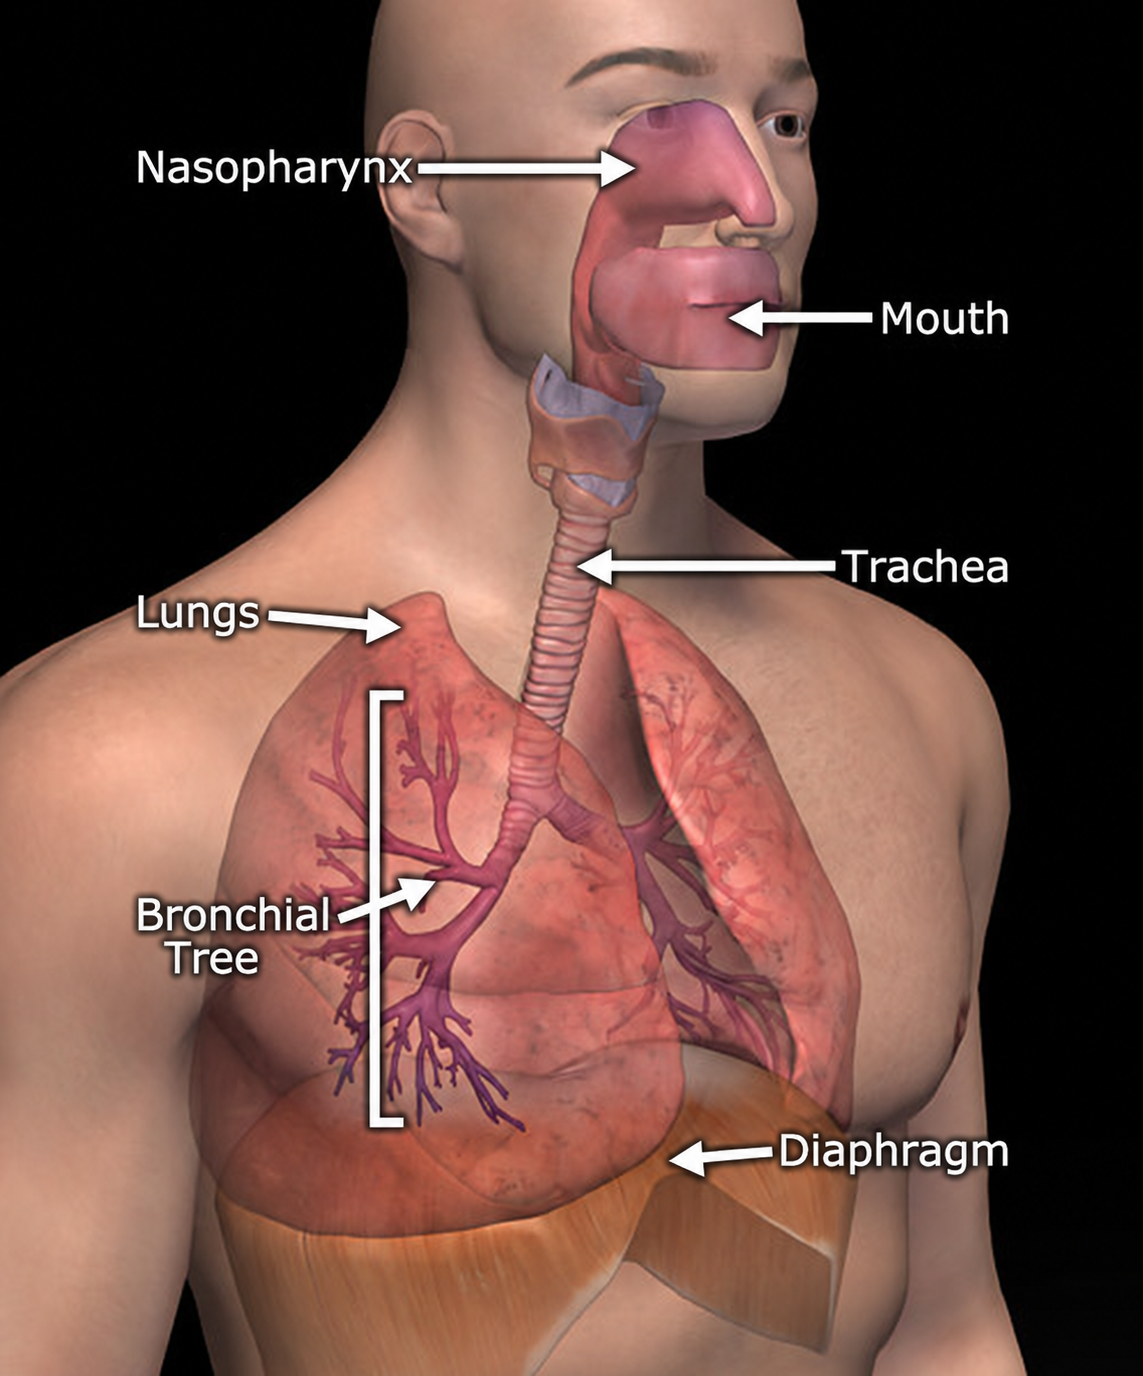
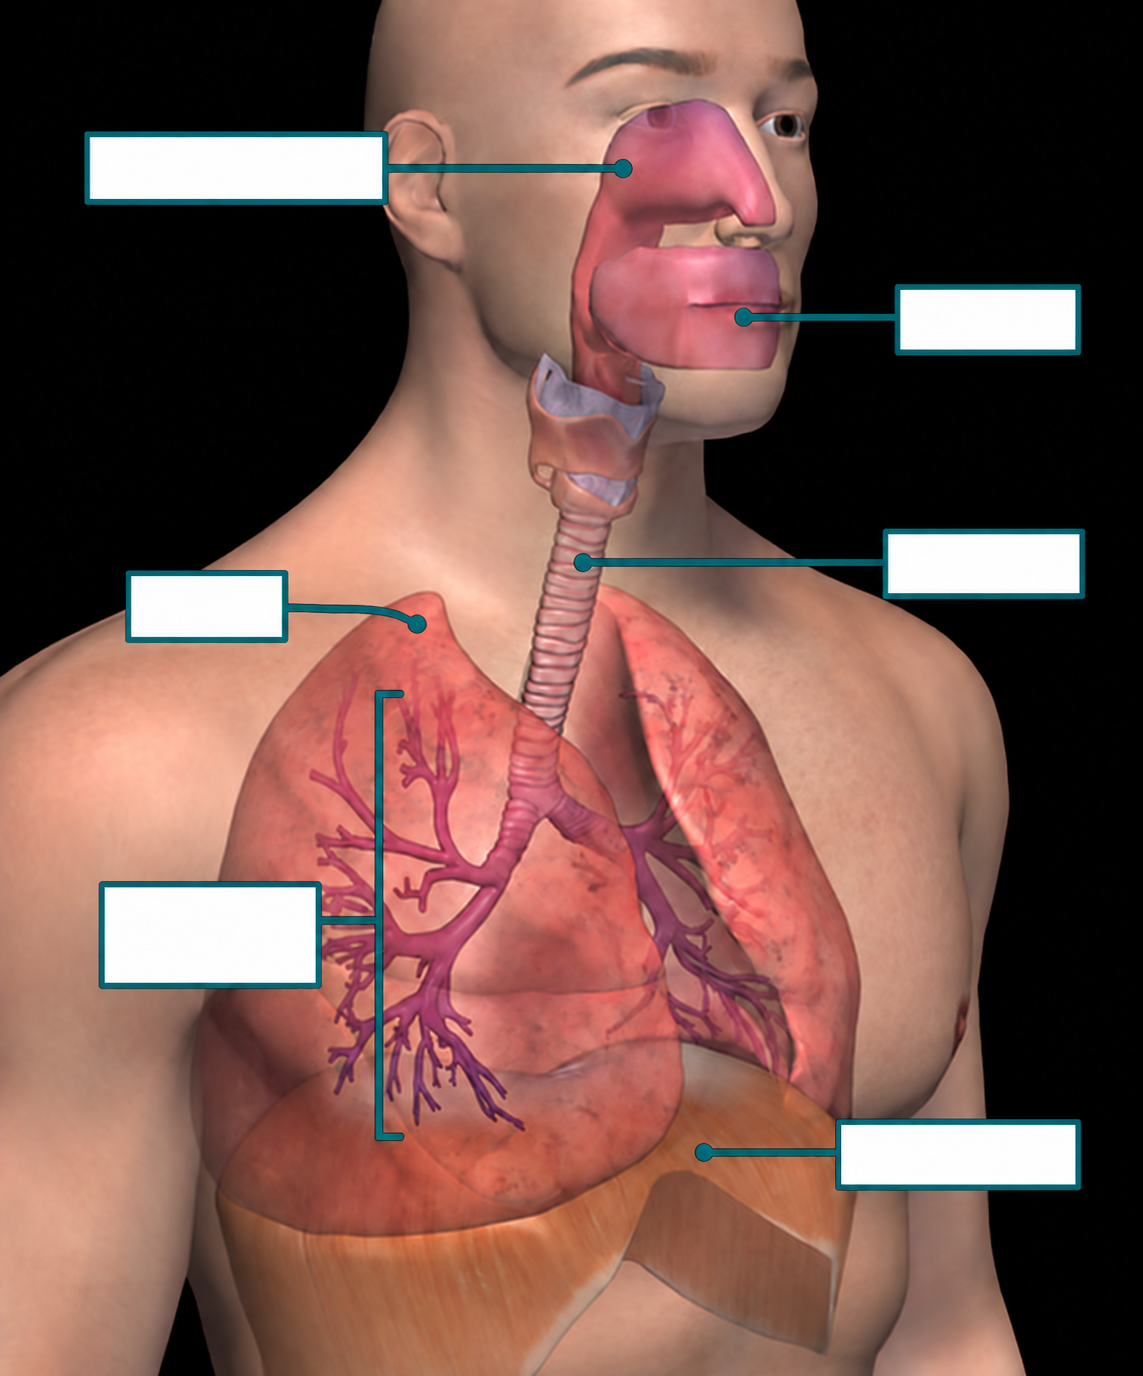
Release 1.0.26 with respiratory diagram test

diff --git a/question-bank.js b/question-bank.js
@@ -595,7 +595,7 @@ addQuestions('musculoskeletal', [
 window.diagramQuestionDatabase = [
   { id: 'diagram-body-01', topic: 'body', type: 'diagram', question: 'Drag each level of organisation onto the matching box in the body organisation diagram.', explanation: 'The levels of organisation progress from atom to molecule, cell, tissue, organ, organ system and finally the complete organism.', diagram: { image: 'assets/test-diagrams/body-organisation-test.png', alt: 'Body organisation diagram with blank label boxes for the test', labels: [{ id: 'atom', name: 'Atom', x: 13.4, y: 37.0, targetX: 13.44, targetY: 49.61, targetWidthPercent: 11.18, targetHeightPercent: 5.47 }, { id: 'molecule', name: 'Molecule', x: 39.0, y: 37.0, targetX: 39.03, targetY: 49.56, targetWidthPercent: 14.03, targetHeightPercent: 5.57 }, { id: 'cell', name: 'Cell', x: 64.5, y: 37.0, targetX: 64.48, targetY: 49.61, targetWidthPercent: 11.04, targetHeightPercent: 5.47 }, { id: 'tissue', name: 'Tissue', x: 13.4, y: 77.0, targetX: 13.40, targetY: 95.56, targetWidthPercent: 11.25, targetHeightPercent: 5.57 }, { id: 'organ', name: 'Organ', x: 39.1, y: 77.0, targetX: 39.10, targetY: 95.56, targetWidthPercent: 13.96, targetHeightPercent: 5.57 }, { id: 'organ-system', name: 'Organ system', x: 64.4, y: 77.0, targetX: 64.38, targetY: 95.56, targetWidthPercent: 19.03, targetHeightPercent: 5.57 }, { id: 'organism', name: 'Organism', x: 87.8, y: 77.0, targetX: 87.81, targetY: 95.56, targetWidthPercent: 14.51, targetHeightPercent: 5.57 }] } },
   { id: 'diagram-cardiovascular-01', topic: 'cardiovascular', type: 'diagram', question: 'Drag each label onto the matching structure in the heart diagram.', explanation: 'The labelled boxes identify structures across the external and cutaway views of the heart. The right side of the cutaway heart receives and pumps deoxygenated blood, while the left side receives and pumps oxygenated blood.', diagram: { image: 'assets/test-diagrams/heart-anatomy-test.png', alt: 'Heart anatomy diagram with blank label boxes for the test', labels: [{ id: 'left-common-carotid-artery', name: 'Left common carotid artery', x: 28.2, y: 21.4, targetX: 22.8, targetY: 12.4, targetWidthPercent: 23.9, targetHeightPercent: 4.1 }, { id: 'brachiocephalic-trunk', name: 'Brachiocephalic trunk', x: 22.4, y: 23.9, targetX: 13.4, targetY: 17.5, targetWidthPercent: 18.9, targetHeightPercent: 4.1 }, { id: 'left-subclavian-artery', name: 'Left subclavian artery', x: 34.0, y: 22.0, targetX: 44.3, targetY: 15.8, targetWidthPercent: 18.0, targetHeightPercent: 4.1 }, { id: 'superior-vena-cava', name: 'Superior vena cava', x: 16.2, y: 31.0, targetX: 9.7, targetY: 23.0, targetWidthPercent: 16.9, targetHeightPercent: 4.1 }, { id: 'aorta', name: 'Aorta', x: 31.7, y: 28.4, targetX: 41.6, targetY: 25.3, targetWidthPercent: 6.4, targetHeightPercent: 4.1 }, { id: 'pulmonary-trunk', name: 'Pulmonary Trunk', x: 28.9, y: 45.4, targetX: 7.1, targetY: 39.2, targetWidthPercent: 10.6, targetHeightPercent: 6.7 }, { id: 'right-atrium', name: 'Right Atrium', x: 19.2, y: 53.2, targetX: 7.9, targetY: 49.9, targetWidthPercent: 7.5, targetHeightPercent: 6.7 }, { id: 'right-coronary-artery', name: 'Right coronary artery', x: 17.8, y: 62.3, targetX: 8.2, targetY: 72.3, targetWidthPercent: 13.1, targetHeightPercent: 7.0 }, { id: 'inferior-vena-cava', name: 'Inferior vena cava', x: 18.3, y: 80.2, targetX: 14.0, targetY: 90.5, targetWidthPercent: 15.9, targetHeightPercent: 4.4 }, { id: 'apex', name: 'Apex', x: 33.2, y: 87.3, targetX: 33.2, targetY: 93.9, targetWidthPercent: 7.0, targetHeightPercent: 4.2 }, { id: 'auricle-of-left-atrium', name: 'Auricle of left atrium', x: 42.5, y: 44.5, targetX: 51.1, targetY: 42.1, targetWidthPercent: 12.0, targetHeightPercent: 6.8 }, { id: 'right-atrium-cutaway', name: 'Right Atrium', x: 63.0, y: 53.3, targetX: 52.2, targetY: 51.0, targetWidthPercent: 7.7, targetHeightPercent: 6.8 }, { id: 'pulmonary-valve', name: 'Pulmonary Valve', x: 67.0, y: 55.6, targetX: 50.7, targetY: 59.9, targetWidthPercent: 10.7, targetHeightPercent: 6.8 }, { id: 'left-coronary-artery', name: 'Left coronary artery', x: 42.5, y: 64.6, targetX: 50.2, targetY: 69.4, targetWidthPercent: 12.5, targetHeightPercent: 7.0 }, { id: 'tricuspid-valve', name: 'Tricuspid Valve', x: 69.3, y: 76.7, targetX: 53.3, targetY: 78.5, targetWidthPercent: 9.1, targetHeightPercent: 6.7 }, { id: 'superior-vena-cava-cutaway', name: 'Superior vena cava', x: 60.0, y: 31.0, targetX: 54.9, targetY: 23.2, targetWidthPercent: 16.3, targetHeightPercent: 4.1 }, { id: 'aorta-cutaway', name: 'Aorta', x: 75.1, y: 28.3, targetX: 85.6, targetY: 20.1, targetWidthPercent: 6.8, targetHeightPercent: 4.2 }, { id: 'pulmonary-veins', name: 'Pulmonary Veins', x: 87.5, y: 46.0, targetX: 93.2, targetY: 32.2, targetWidthPercent: 10.8, targetHeightPercent: 6.6 }, { id: 'left-atrium', name: 'Left Atrium', x: 83.4, y: 51.1, targetX: 93.7, targetY: 50.5, targetWidthPercent: 7.7, targetHeightPercent: 6.7 }, { id: 'mitral-valve', name: 'Mitral Valve', x: 78.0, y: 55.5, targetX: 93.4, targetY: 61.5, targetWidthPercent: 7.3, targetHeightPercent: 7.1 }, { id: 'aortic-valve', name: 'Aortic Valve', x: 80.0, y: 55.5, targetX: 91.6, targetY: 74.8, targetWidthPercent: 7.2, targetHeightPercent: 6.6 }, { id: 'right-ventricle', name: 'Right Ventricle', x: 69.3, y: 76.4, targetX: 64.4, targetY: 93.6, targetWidthPercent: 14.0, targetHeightPercent: 4.9 }, { id: 'left-ventricle', name: 'Left Ventricle', x: 80.5, y: 75.3, targetX: 91.3, targetY: 93.3, targetWidthPercent: 12.2, targetHeightPercent: 4.5 }] } },
-  { id: 'diagram-respiratory-01', topic: 'respiratory', type: 'diagram', question: 'Drag each airway label onto the matching structure.', explanation: 'Air passes through the nasopharynx and mouth, down the trachea, through the bronchial tree and into the lungs. The diaphragm supports ventilation.', diagram: { image: 'assets/test-diagrams/respiratory-system-test.png', alt: 'Respiratory system diagram for the test', labels: [{ id: 'nasopharynx', name: 'Nasopharynx', x: 20, y: 11, targetWidth: 260, targetHeight: 58 }, { id: 'mouth', name: 'Mouth', x: 71, y: 21, targetWidth: 250, targetHeight: 58 }, { id: 'trachea', name: 'Trachea', x: 70, y: 41, targetWidth: 300, targetHeight: 150 }, { id: 'lungs', name: 'Lungs', x: 20, y: 41, targetWidth: 360, targetHeight: 90 }, { id: 'bronchial-tree', name: 'Bronchial tree', x: 18, y: 61, targetWidth: 380, targetHeight: 150 }, { id: 'diaphragm', name: 'Diaphragm', x: 68, y: 83, targetWidth: 440, targetHeight: 180 }] } },
+  { id: 'diagram-respiratory-01', topic: 'respiratory', type: 'diagram', question: 'Drag each label onto the matching structure in the respiratory system diagram.', explanation: 'Air enters through the nasopharynx and mouth, passes down the trachea and through the bronchial tree into the lungs. The diaphragm helps drive ventilation.', diagram: { image: 'assets/test-diagrams/respiratory-system-test.png', alt: 'Respiratory system diagram with blank label boxes for the test', labels: [{ id: 'nasopharynx', name: 'Nasopharynx', x: 54.5, y: 12.2, targetX: 20.65, targetY: 12.21, targetWidthPercent: 26.42, targetHeightPercent: 5.16 }, { id: 'mouth', name: 'Mouth', x: 65.0, y: 23.0, targetX: 86.44, targetY: 23.07, targetWidthPercent: 16.27, targetHeightPercent: 4.72 }, { id: 'trachea', name: 'Trachea', x: 51.0, y: 40.8, targetX: 86.00, targetY: 41.10, targetWidthPercent: 17.67, targetHeightPercent: 4.87 }, { id: 'lungs', name: 'Lungs', x: 36.5, y: 45.3, targetX: 18.06, targetY: 44.04, targetWidthPercent: 14.09, targetHeightPercent: 5.23 }, { id: 'bronchial-tree', name: 'Bronchial Tree', x: 27.0, y: 67.0, targetX: 18.24, targetY: 67.95, targetWidthPercent: 19.34, targetHeightPercent: 7.70 }, { id: 'diaphragm', name: 'Diaphragm', x: 61.5, y: 83.8, targetX: 83.77, targetY: 83.94, targetWidthPercent: 21.43, targetHeightPercent: 4.94 }] } },
   { id: 'diagram-nervous-01', topic: 'nervous', type: 'diagram', question: 'Drag each label onto the matching structure in the nervous system diagram.', explanation: 'The central nervous system is the brain and spinal cord. The peripheral nervous system is the network of nerves outside them.', diagram: { image: 'assets/test-diagrams/nervous-system-test.png', alt: 'Central and peripheral nervous system diagram with blank label boxes for the test', labels: [{ id: 'central', name: 'Central nervous system', x: 47.0, y: 17.0, targetX: 79.4, targetY: 9.5, targetWidthPercent: 31.8, targetHeightPercent: 11.7 }, { id: 'peripheral', name: 'Peripheral nervous system', x: 51.0, y: 67.0, targetX: 82.0, targetY: 67.9, targetWidthPercent: 30.9, targetHeightPercent: 11.4 }] } },
   { id: 'diagram-lymphatic-urinary-reproductive-01', topic: 'lymphatic-urinary-reproductive', type: 'diagram', question: 'Drag each label onto the matching structure in the lymphatic, urinary and reproductive systems diagram.', explanation: 'Lymphatic vessels return excess tissue fluid to the circulation, the kidneys filter blood and form urine, the bladder stores urine, and the reproductive organs support reproduction.', diagram: { image: 'assets/test-diagrams/lymphatic-urinary-reproductive-test.png', alt: 'Lymphatic, urinary and reproductive systems diagram with blank label boxes for the test', labels: [{ id: 'lymphatic-vessels', name: 'Lymphatic vessels', x: 40.3, y: 37.0, targetX: 13.85, targetY: 18.41, targetWidthPercent: 20.21, targetHeightPercent: 13.38 }, { id: 'kidneys', name: 'Kidneys', x: 56.9, y: 46.5, targetX: 80.52, targetY: 39.21, targetWidthPercent: 20.49, targetHeightPercent: 8.50 }, { id: 'bladder', name: 'Bladder', x: 53.5, y: 63.2, targetX: 79.93, targetY: 64.94, targetWidthPercent: 20.42, targetHeightPercent: 8.59 }, { id: 'reproductive-organs', name: 'Reproductive organs', x: 53.0, y: 76.8, targetX: 81.22, targetY: 90.04, targetWidthPercent: 29.65, targetHeightPercent: 13.87 }] } },
   { id: 'diagram-digestive-01', topic: 'digestive', type: 'diagram', question: 'Drag each label onto the matching structure in the digestive system diagram.', explanation: 'Food travels from the mouth through the oesophagus, stomach and intestines. The stomach, liver, gall bladder and pancreas support digestion, while the small and large intestines absorb nutrients and water before waste is eliminated.', diagram: { image: 'assets/test-diagrams/digestive-system-test.png', alt: 'Digestive system diagram with blank label boxes for the test', labels: [{ id: 'hard-palate', name: 'Hard palate', x: 37.9, y: 15.5, targetX: 14.4, targetY: 12.7, targetWidthPercent: 19.4, targetHeightPercent: 3.5 }, { id: 'tongue', name: 'Tongue', x: 41.8, y: 18.0, targetX: 15.8, targetY: 17.6, targetWidthPercent: 12.6, targetHeightPercent: 3.5 }, { id: 'larynx', name: 'Larynx', x: 47.9, y: 22.9, targetX: 18.2, targetY: 22.6, targetWidthPercent: 13.9, targetHeightPercent: 3.5 }, { id: 'soft-palate', name: 'Soft palate', x: 48.4, y: 16.5, targetX: 87.2, targetY: 15.7, targetWidthPercent: 18.0, targetHeightPercent: 3.6 }, { id: 'oropharynx', name: 'Oropharynx', x: 48.8, y: 19.0, targetX: 88.0, targetY: 19.5, targetWidthPercent: 19.5, targetHeightPercent: 3.3 }, { id: 'oesophagus', name: 'Oesophagus', x: 51.5, y: 29.1, targetX: 88.0, targetY: 28.2, targetWidthPercent: 19.6, targetHeightPercent: 3.6 }, { id: 'liver-gall-bladder', name: 'Liver and gall bladder', x: 36.3, y: 45.6, targetX: 10.9, targetY: 44.5, targetWidthPercent: 17.9, targetHeightPercent: 5.7 }, { id: 'diaphragm', name: 'Diaphragm', x: 62.0, y: 42.3, targetX: 89.7, targetY: 41.4, targetWidthPercent: 17.1, targetHeightPercent: 3.5 }, { id: 'stomach', name: 'Stomach', x: 63.4, y: 45.6, targetX: 91.1, targetY: 45.3, targetWidthPercent: 14.6, targetHeightPercent: 3.4 }, { id: 'pancreas', name: 'Pancreas', x: 52.8, y: 50.5, targetX: 91.1, targetY: 49.7, targetWidthPercent: 14.6, targetHeightPercent: 3.3 }, { id: 'duodenum', name: 'Duodenum', x: 44.8, y: 54.0, targetX: 10.2, targetY: 53.9, targetWidthPercent: 16.4, targetHeightPercent: 3.5 }, { id: 'transverse-colon', name: 'Transverse colon', x: 58.9, y: 54.4, targetX: 87.4, targetY: 54.7, targetWidthPercent: 22.0, targetHeightPercent: 3.4 }, { id: 'ascending-colon', name: 'Ascending colon', x: 34.8, y: 60.9, targetX: 13.5, targetY: 61.7, targetWidthPercent: 23.0, targetHeightPercent: 3.5 }, { id: 'small-intestine', name: 'Small intestine', x: 53.7, y: 60.5, targetX: 87.5, targetY: 61.0, targetWidthPercent: 21.6, targetHeightPercent: 4.2 }, { id: 'descending-colon', name: 'Descending colon', x: 62.5, y: 64.8, targetX: 86.9, targetY: 65.0, targetWidthPercent: 22.7, targetHeightPercent: 3.5 }, { id: 'appendix', name: 'Appendix', x: 41.1, y: 67.6, targetX: 9.9, targetY: 67.8, targetWidthPercent: 14.6, targetHeightPercent: 3.3 }, { id: 'sigmoid-colon', name: 'Sigmoid colon', x: 55.7, y: 70.2, targetX: 88.5, targetY: 70.9, targetWidthPercent: 19.2, targetHeightPercent: 3.5 }, { id: 'rectum', name: 'Rectum', x: 48.1, y: 72.7, targetX: 11.8, targetY: 72.6, targetWidthPercent: 13.4, targetHeightPercent: 3.3 }] } },
